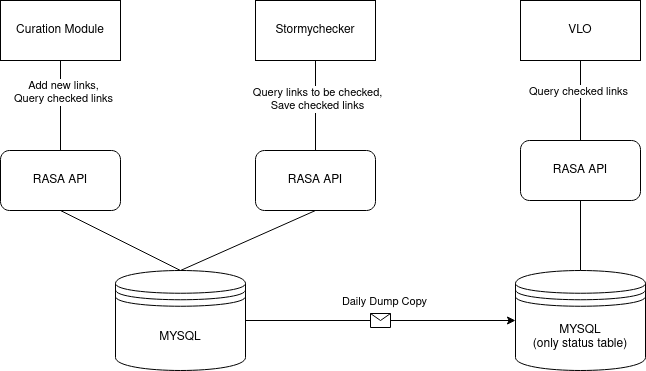
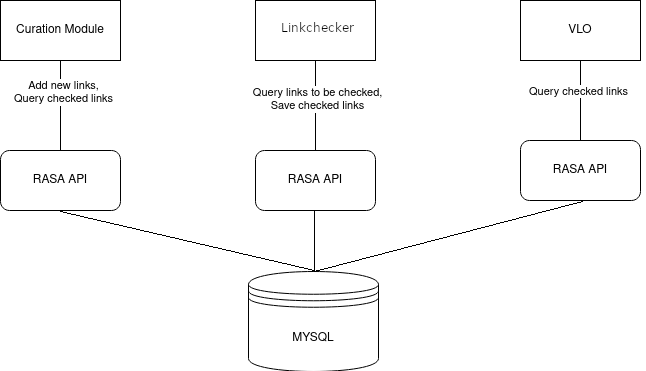
update documentation

diff --git a/README.md b/README.md
@@ -1,114 +1,162 @@
 # Resource Availability Status Api
 
-Resource Availability Status Api, aka `RASA`, is a Java API that queries the link checking database of 
+Resource Availability Status API project, aka `RASA`, contains an abstract Java API (rasa-api) and currently one 
+mysql implementation of the API (rasa-mysql-impl) that queries the link checking database of 
 the [Curation Module](https://github.com/clarin-eric/clarin-curation-module)
-and the [Stormychecker](https://github.com/acdh-oeaw/stormychecker). 
+and the [Linkchecker](https://github.com/clarin-eric/linkchecker). 
 It takes care of the database specific code and provides convenience methods for developers who want to access 
-meaningful information extracted from the results of Stormychecker. 
-Currently, it supports only MySQL but it is extendible to other databases as well.
+meaningful information extracted from the results of Linkchecker. 
 
 ### Usage
 
-Add RASA as a dependency to your pom.xml:
+Add rasa-api and a rasa implementation (f.e. rasa-mysql-impl) as a dependency to your pom.xml:
+
 ```
 <dependency>
     <groupId>eu.clarin.cmdi</groupId>
-    <artifactId>resource-availability-status-api</artifactId>
-    <version>3.0.5</version>
+    <artifactId>rasa-api</artifactId>
+    <version>4.0.0</version>
+</dependency>
+<dependency>
+    <groupId>eu.clarin.cmdi</groupId>
+    <artifactId>rasa-mysql-impl</artifactId>
+    <version>4.0.0</version>
 </dependency>
 ```
-Create Rasa Factory with database parameters:
+
+Create Rasa Factory with database parameters (example for mysql-impl with [HikariCP](https://github.com/brettwooldridge/HikariCP)):
+
 ```
-RasaFactory factory = new ACDHRasaFactory(DATABASE_URI, DATABASE_USERNAME, DATABASE_PASSWORD);
+Properties properties = new Properties();
+properties.setProperty("jdbcUrl","...");
+properties.setProperty("username", "...");
+properties.setProperty("password", "...");
+...
+RasaFactory factory = RasaFactoryBuilderImpl.getRasaFactory(properties);
 ```
+
 Get the resources:
+
 ```
 CheckedLinkResource checkedLinkResource = factory.getCheckedLinkResource();
 LinkToBeCheckedResource linkToBeCheckedResource = factory.getLinkToBeCheckedResource();
-StatisticsResource statisticsResource = factory.getStatisticsResource();
 ```
 
-**CheckedLink Example:**
-Get a checked link by its url:
+**CheckedLink Examples:**
+
+Get a CheckedLink object by its url:
+
 ```
-CheckedLink checkedLink = checkedLinkResource.get(url);
+CheckedLinkFilter filter = checkedLinkResource.getCheckedLinkFilter().filter.setUrlIs("...");
+CheckedLink checkedLink = checkedLinkResource.get(filter).getFirst().get();
 ```
-**Filter Example with CheckedLink:**
-Get a stream of checked links by their collection and status:
+
+Get a stream of CheckedLink objects by their providerGroup "xyz" with status 200:
+
 ```
-ACDHCheckedLinkFilter filter = new ACDHCheckedLinkFilter(collectionName, status);
-try(Stream<CheckedLink> links = checkedLinkResource.get(Optional.of(filter))) {
+CheckedLinkFilter filter = checkedLinkResource.getCheckedLinkFilter().setProviderGroupIs("xyz").setStatusIs(200);
+try(Stream<CheckedLink> links = checkedLinkResource.get(filter)) {
     //...
 }
 ```
-**LinkToBeCheceked Example:**
-Save a new link to be checked into the database:
+
+Count the number of checkedLinks for providerGroup xyz: 
+
 ```
-LinkToBeChecked linkToBeChecked = new LinkToBeChecked(url, record, collection, expectedMimeType);
-linkToBeCheckedResourece.save(linkToBeChecked);
+CheckedLinkFilter filter = checkedLinkResource.getCheckedLinkFilter().setProviderGroupIs("xyz");
+checkedLinkResource.count(filter);
+}
 ```
 
-**Statistics Example:**
-Get overall checked link count and overall average response time:
+**LinkToBeChecked Examples:**
+
+Save a new link to be checked into the database:
+
 ```
-Statistics statistics = statisticsResource.getOverallStatistics();
-statistics.getCount(); //the number of all urls in the status table
-statistics.getAvgRespTime(); //the average response time of all checked links in the status table
+LinkToBeChecked linkToBeChecked = new LinkToBeChecked(url, record, collection, expectedMimeType);
+linkToBeCheckedResource.save(linkToBeChecked);
 ```
-**Filter Example with Statistics:**
-Count all urls which have the collection "Google" and have broken as true from the status table:
+
+Count the number of URLs in the database
+
 ```
-acdhStatisticsFilter = new ACDHStatisticsCountFilter("Google", null, true, false, Table.STATUS);
-long count = statisticsResource.countTable(acdhStatisticsFilter);
+LinkToBeCheckedFilter filter = linkToBeCheckedResource.getLinkToBeCheckedFilter();
+linkToBeCheckedResource.filter(linkToBeChecked);
+```
+
+Count the number of URLs for providerGroup "xyz"
+
+```
+LinkToBeCheckedFilter filter = linkToBeCheckedResource.getLinkToBeCheckedFilter().setProviderGroupIs("xyz");
+linkToBeCheckedResource.filter(linkToBeChecked);
 ```
 
 ### Javadoc
+
 `mvn javadoc:javadoc` will create javadoc files under `target/site/apidocs` From there if you open `index.html` you can browse the javadoc 
 
 ### Use Cases:
 
 ![RASA architecture diagram](RASA-architecture-diagram.png)
 
-1. Curation Module fills up the database with new links to be checked via RASA. 
-2. Stormychecker queries the database, checks the links and saves them back in the database via RASA.
-3. Curation Module provides a daily dump of the database, which VLO copies to its own servers and accesses it via RASA.
+1. Curation Module inserts new links to be checked or activates/deactivates existing links via RASA. 
+2. Linkchecker queries the database, checks the links and saves them back in the database via RASA.
+3. VLO-importer queries the database for link status information
 
-### Database Schema
-There are three tables in the database that RASA interacts with: `urls`, `status` and `history`. There are also some indexes to help with performance when querying the database. 
-Definitive table schema can be found [here](https://github.com/acdh-oeaw/stormychecker/blob/master/tableCreation.sql).
+### Database Schema of the mysql implementation
+There are three tables in the database that RASA interacts with: `url`, `status`, `history`, `url_context`, `context` and `providerGroup`. There are also some indexes to help with performance when querying the database. 
+Definitive table schema can be found [here](https://github.com/clarin-eric/resource-availability-status-api/blob/master/rasa-mysql-impl/src/test/resources/createDB.sql).
 
-`urls:` This table is the definitive list of all urls. 
+`url:` This table is the definitive list of all urls. 
 Curation Module fills this table up during the weekly update. 
 A tuple in this table maps to LinkToBeChecked class in RASA.
     
-    url VARCHAR(255): url of the link (primary key)
-    nextfetchdate TIMESTAMP: Stormychecker queries the database sorting by nextfetchdate
-    host VARCHAR(128): host name of the url, Stormychecker distributes urls according to host to its runners.
-    record VARCHAR(255): CMDI Record of the link
-    collection VARCHAR(255): CMDI Collection of the link
-    expectedMimeType VARCHAR(255): expected mime type of the link extracted from the record
-    harvestDate BIGINT(255): Curation Module updates this value during the weekly update. If it is not updated, that means this link used to be in the harvest but was removed, which curation Module then deletes (moves to history).
+    id INT: the unique record identifier
+    url VARCHAR(1024): url of the link (primary key)
+
 
 `status:` This is the table where the latest responses of the checks are persisted. 
-Stormychecker reads links from `urls` table, checks them and saves them into this table.
+Linkchecker reads urls from `url` table, checks them and saves the checking result into this table.
 A tuple in this table maps to CheckedLink class in RASA.
 
-    url VARCHAR(255): url of the link (unique and foreign key to urls table, deleted here when deleted from urls table)
+    id INT: the unique record identifier
+    url_id INT: record of the link (unique and foreign key to url table)
     statusCode INT: status code of the response
     method VARCHAR(128): method of the request (HEAD or GET)
     contentType VARCHAR(255): mime type of the response
     byteSize INT: size of the response in bytes
     duration INT: duration of the response in milliseconds
-    timestamp TIMESTAMP: timestamp of the response
+    checkingDate DATETIME: last time the link was checked
     redirectCount INT: amount of redirects in total for the link
-    record VARCHAR(255): CMDI Record of the link
-    collection VARCHAR(255): CMDI Collection of the link
-    expectedMimeType VARCHAR(255): expected mime type of the link
     message VARCHAR(255): explanation of the response, ex: why a link was undetermined, or what exception was thrown during the request 
     category VARCHAR(50): category of the response, possible categories: Ok, Broken, Undetermined, Restricted_Access, Blocked_By_Robots_txt
     
 `history:` This is the table where links are saved if they were checked more than one time. 
 So if a link is already in the `status` table 
-and is checked again, then the old checked link is moved here.
-A tuple in this table maps to CheckedLink class in RASA.
-Schema of this table is the same as 'status' table, however, there is no unique or foreign key constraints.
+and is checked again, then the old status record is copied here while the status record is overridden.
+Schema of this table is almost the same as 'status' table, but we save the id from status table as status_id (in fact a redundant information), drop 
+unique key constraint for url_id and add a unique key constraint on url_id + checkingDate, since the same URL can't be checked more than once at 
+the same time. 
+
+`url_context:` As the name says this table links a URL to one or more context(s). 
+   
+    id INT: the unique record identifier
+    url_id INT: the unique record identifier from url table
+    context_id INT: the unique record identifier from context table
+    ingestionDate DATETIME: last time the URL was ingested in the context
+    active BOOLEAN: indicates whether the URL is still active in this context
+    
+`context:` This table saves the context(s) of each link to an URL
+
+    id INT: the unique record identifier
+    source VARCHAR(256): could be harvested data or some other data source
+    record VARCHAR(256): for example a file name 
+    providerGroup_id INT: the unique record identifier of the providerGroup table
+    expectedMimeType VARCHAR(256): some links provide information on the expected mime type of the link resource
+    
+`providerGroup:` This table saves the names of the provider groups
+
+    id INT: the unique record identifier
+    name VARCHAR(256): the name of the provider group    
+   
+    
